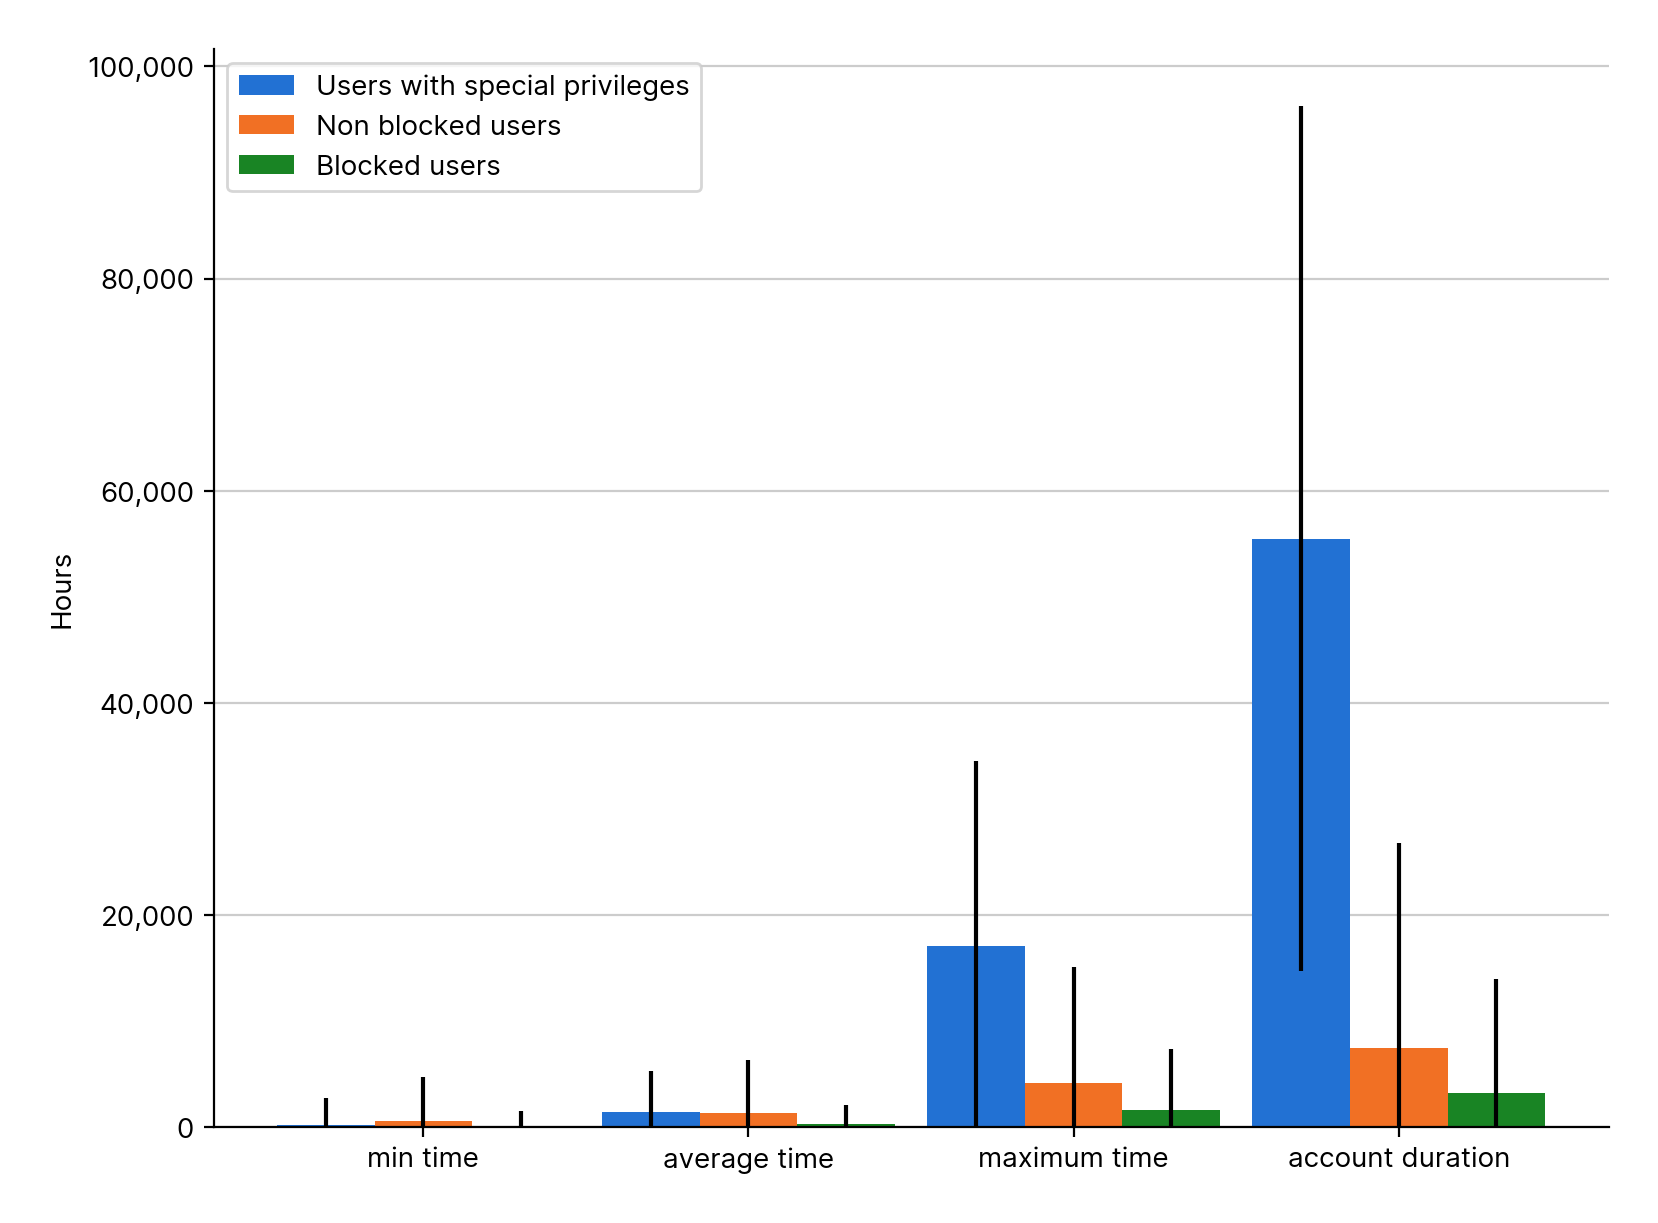
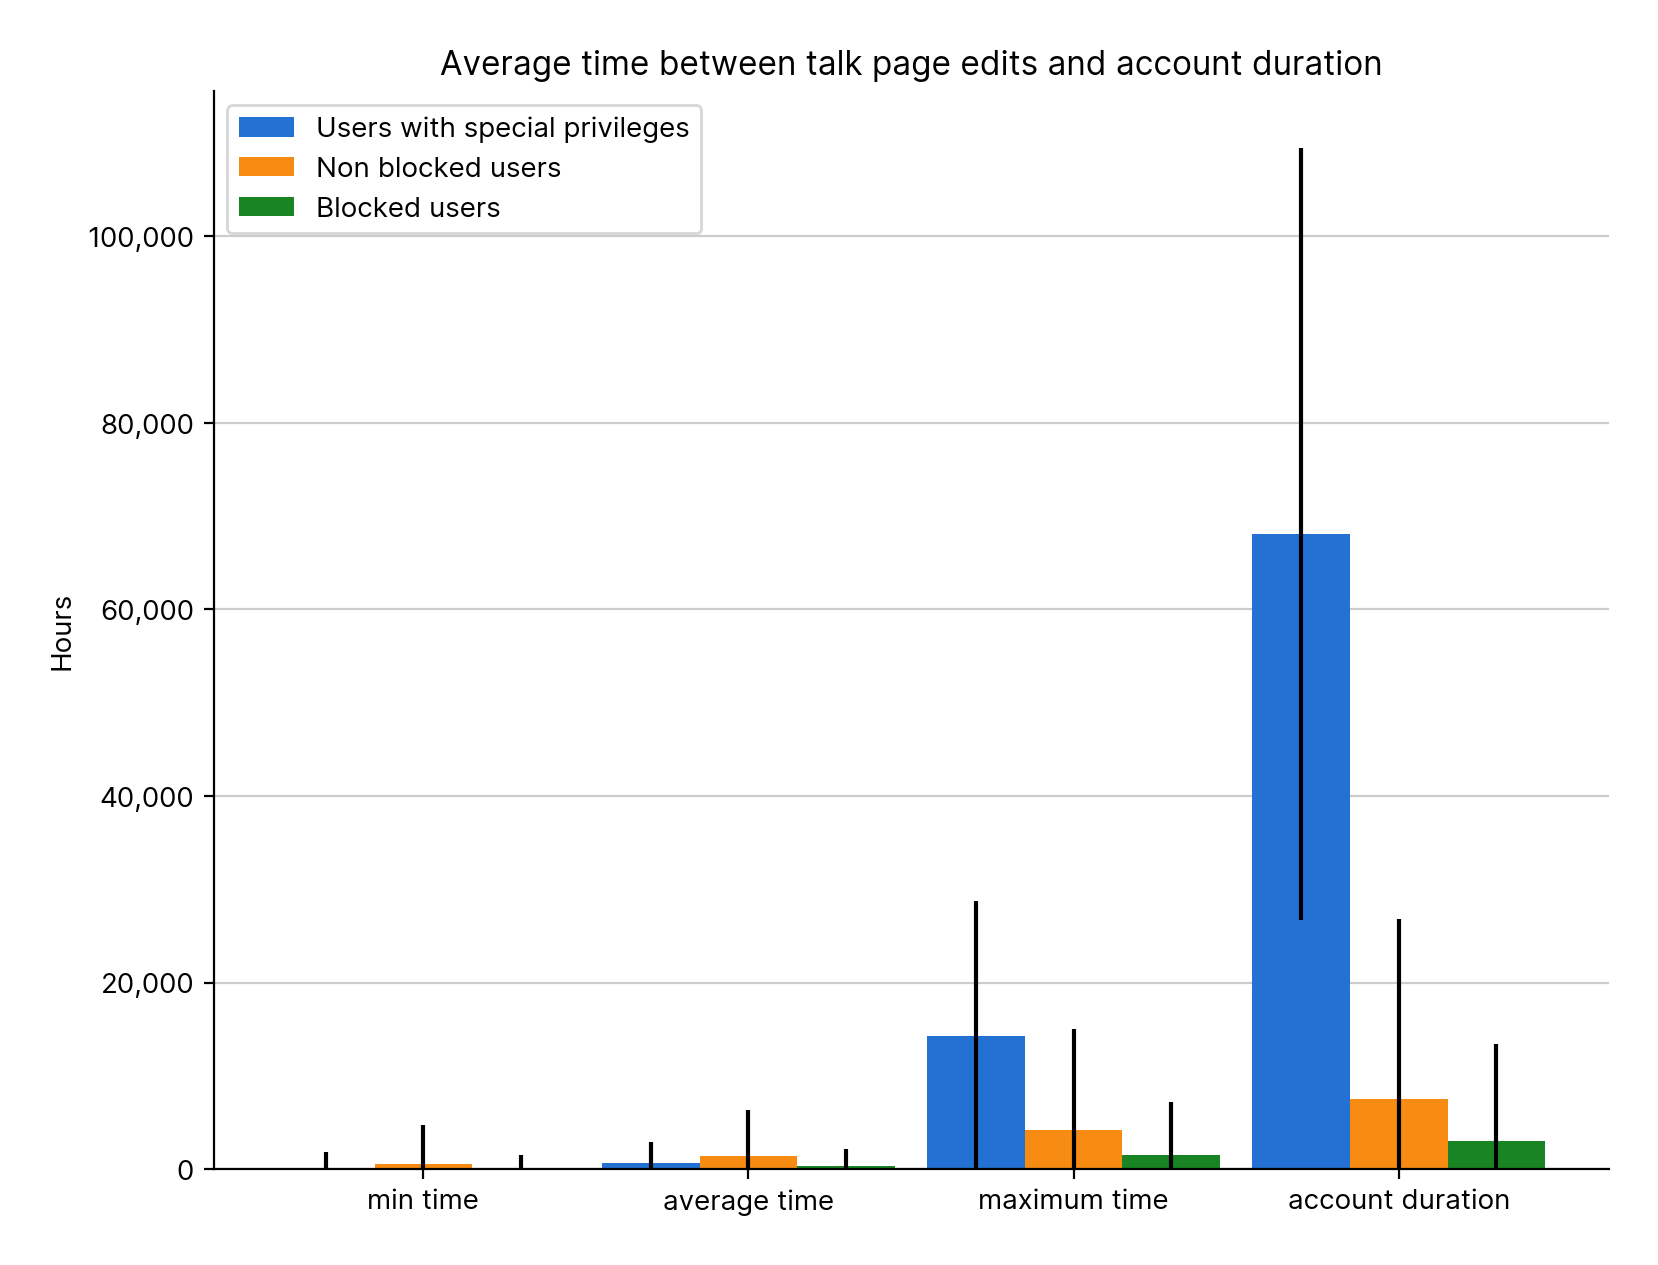
add title to plot

diff --git a/nsdb/plot.py b/nsdb/plot.py
@@ -698,12 +698,12 @@ def editTimesUserBots(cursor, i, plotDir, dataDir, dryrun=False):
             file.write(str(userData) + "\n" + str(userStd))
     else:
         # userData = [554.73523706, 1895.69554062, 12669.22330022, 40912.15355312]
-        userData = [584.68424387, 1352.63700297, 4186.79704245, 7490.39812962]
+        userData = [585.04453404, 1353.55128065, 4190.04904727, 7496.67851755]
         userStd = [
-            4172.026442852001,
-            4943.701153194956,
-            10873.528895162885,
-            19310.972230041192,
+            4173.818169075838,
+            4945.720150565946,
+            10877.852434682092,
+            19318.9197993923,
         ]
 
     blocked = """select avg(min_time)/3600, avg(avg_time)/3600, avg(max_time)/3600,
@@ -720,12 +720,12 @@ def editTimesUserBots(cursor, i, plotDir, dataDir, dryrun=False):
             file.write(str(blockedData) + "\n" + str(blockedStd))
     else:
         # blockedData = [5.51123904, 215.49983126, 4457.78610197, 17759.69208272]
-        blockedData = [92.79879749, 303.09142600, 1582.28911081, 3231.75859999]
+        blockedData = [104.89630128, 315.44417069, 1522.00393320, 3044.11047520]
         blockedStd = [
-            1437.4337418350062,
-            1804.4136287010265,
-            5778.304638286785,
-            10743.635287170524,
+            1445.3397388692304,
+            1813.6419287313036,
+            5619.618614308308,
+            10367.92683510656,
         ]
 
     specialUsers = """select avg(min_time)/3600, avg(avg_time)/3600, avg(max_time)/3600,
@@ -742,12 +742,12 @@ def editTimesUserBots(cursor, i, plotDir, dataDir, dryrun=False):
             file.write(str(specialUsersData) + "\n" + str(specialUsersStd))
     else:
         # specialUsersData = [147.03132949, 1124.02555881, 13976.81447445, 45119.61085901]
-        specialUsersData = [192.15421342, 1462.58485847, 17093.34624816, 55476.52302954]
+        specialUsersData = [75.23881283, 608.03894083, 14312.48619327, 68101.25732456]
         specialUsersStd = [
-            2590.0629314313774,
-            3788.0370304857165,
-            17440.14473037299,
-            40756.72616459319,
+            1720.7292200635438,
+            2310.760460431426,
+            14440.439492053269,
+            41412.40758456633,
         ]
 
     # Numbers of pairs of bars you want
@@ -788,6 +788,7 @@ def editTimesUserBots(cursor, i, plotDir, dataDir, dryrun=False):
     plt.xticks(list(map(lambda x: x + (width * 2) / 2, ind)), columns)
 
     ax.set_ylim(bottom=0)
+    ax.set_title("Average time between talk page edits and account duration")
     ax.set_ylabel("Hours")
     plt.legend(loc="upper left")
 
@@ -2025,8 +2026,6 @@ def averageAllSpecial(cursor, i, plotDir, dataDir, dryrun):
     axs[2].set_yticklabels(columns[start:end])
     axs[2].set_yticks(plotRange)
     axs[2].set_xlim(left=0)
-    # print(axs[1].get_ylim())
-    # axs[2].set_ylim([0.5, 3.25])
 
     start = 8
     end = 21
@@ -2075,8 +2074,6 @@ def averageAllSpecial(cursor, i, plotDir, dataDir, dryrun):
     axs[3].set_yticklabels(columns[start:])
     axs[3].set_yticks(plotRange)
     axs[3].set_xlim(left=0)
-
-    # print(plotRange)
 
     plt.gcf().set_size_inches(9.5, 9.5)
     removeSpines(axs[0])
@@ -2528,8 +2525,7 @@ def booleanPieCharts(cursor, i, plotDir, dataDir, dryrun):
         cursor.execute(query,)
         data = cursor.fetchall()
         data = list(*data)
-        # data = list(map(lambda x: float(x), data))
-        # print(data)
+
         population = data.pop(0)
         with open(dataDir + str(i) + ".txt", "w") as file:
             file.write(str(data) + "\n" + str(population))
@@ -2555,7 +2551,6 @@ def booleanPieCharts(cursor, i, plotDir, dataDir, dryrun):
     # plot each pie chart in a separate subplot
     for key, value in enumerate(columns):
         axs[key].set_title(value)
-        print([population, data[key]])
         axs[key].pie([population, data[key]])
 
     axs[-1].axis("off")
@@ -2606,8 +2601,8 @@ def plot(plotDir: str = "../plots/", dryrun=False):
     if "Inter" in [f.name for f in font_manager.fontManager.ttflist]:
         matplotlib.rcParams["font.family"] = "Inter"
 
-    cycle_colors = plt.rcParams["axes.prop_cycle"].by_key()["color"]
-    print(cycle_colors)
+    # cycle_colors = plt.rcParams["axes.prop_cycle"].by_key()["color"]
+
     matplotlib.rcParams["axes.prop_cycle"] = cycler(
         color=[
             "#2271d3",
